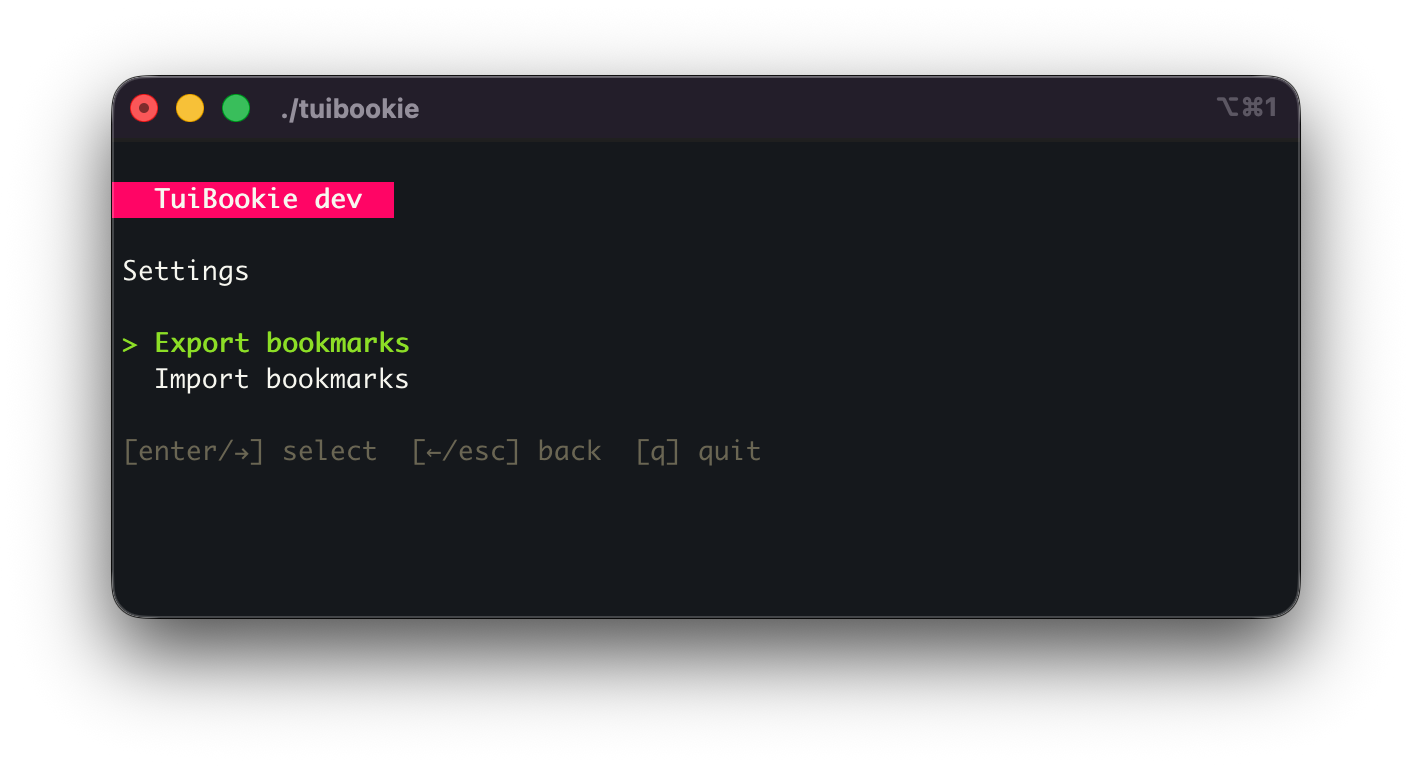
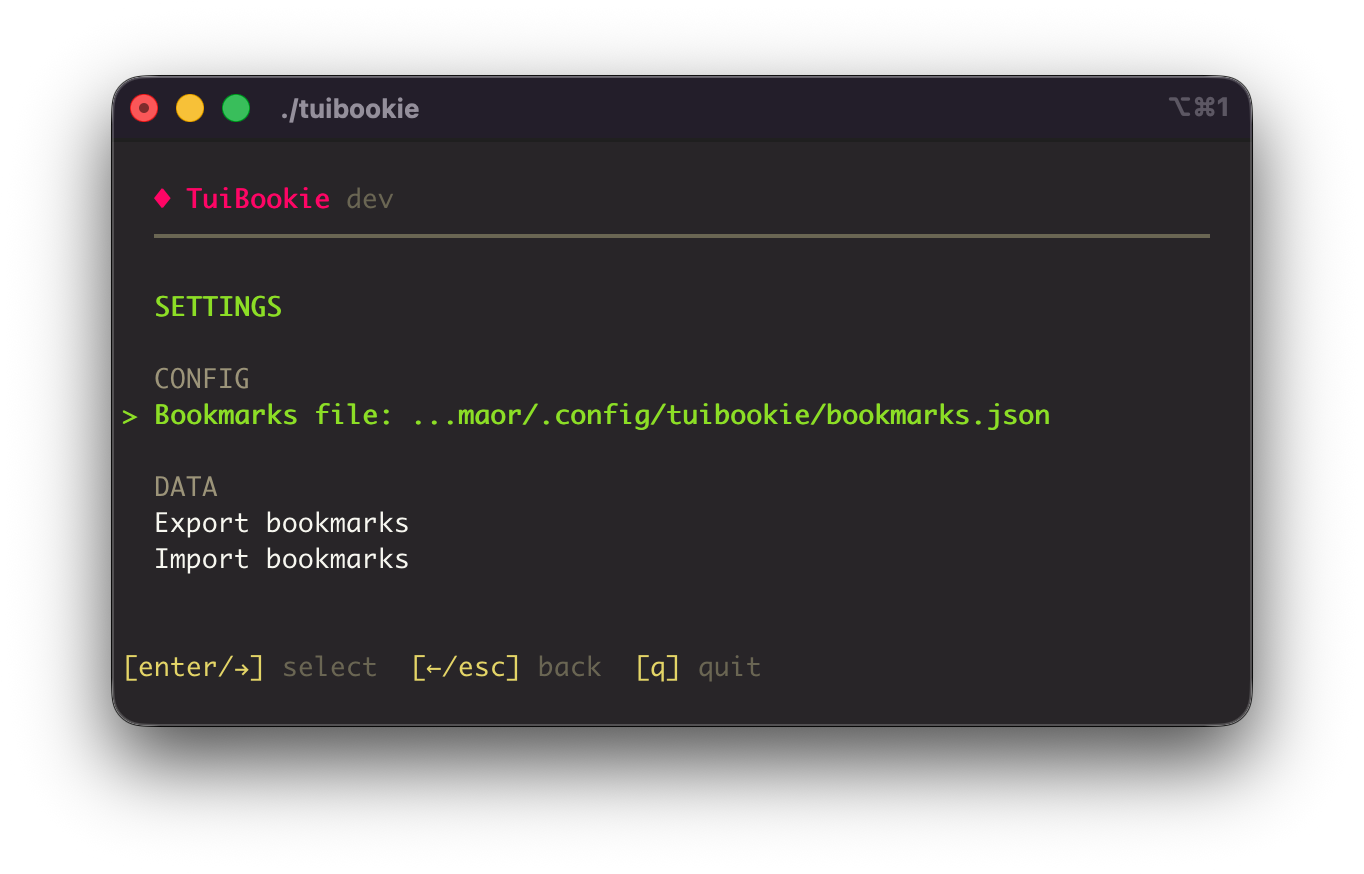
fix: update UI styles and improve layout for better readability

Changed region(s): [[0.0616, 0.0601, 0.9238, 0.8708], [0.3387, 0.4504, 0.7698, 0.5104], [0.4619, 0.5705, 0.5235, 0.6005]]

diff --git a/website/index.html b/website/index.html
@@ -223,18 +223,29 @@
     }
 
     .tui-badge {
-      display: inline-block;
-      background: var(--accent);
-      color: var(--text);
-      padding: 1px 8px;
-      border-radius: 3px;
+      display: block;
       font-size: 12px;
+      margin-bottom: 4px;
+    }
+    .tui-badge .tui-title-name {
+      color: var(--accent);
       font-weight: bold;
+    }
+    .tui-badge .tui-title-ver {
+      color: var(--help);
+    }
+    .tui-sep {
+      color: var(--help);
       margin-bottom: 12px;
+      letter-spacing: -1px;
+      overflow: hidden;
+      white-space: nowrap;
     }
 
     .tui-heading {
-      color: var(--text);
+      color: var(--green);
+      font-weight: bold;
+      text-transform: uppercase;
       margin-bottom: 8px;
     }
 
@@ -475,13 +486,14 @@
             </div>
             <div class="terminal-body">
               <div class="tui">
-                <div><span class="tui-badge">TuiBookie <!--VERSION-->v1.1.4<!--/VERSION--></span></div>
+                <div class="tui-badge"><span class="tui-title-name">◆ TuiBookie</span> <span class="tui-title-ver"><!--VERSION-->v1.1.4<!--/VERSION--></span></div>
+                <div class="tui-sep">━━━━━━━━━━━━━━━━━━━━━━━━━━━━━━━━━━━━━━━━━━━━━━━━━━━━━━━━━━━━━━━━━━━━━━━━━━━━━━━━━━━━━━━━━━━━━━━━━━━━</div>
                 <div class="tui-selected">&gt; Deployments (3)</div>
                 <div>&nbsp; Docker (4)</div>
                 <div>&nbsp; Kubernetes (3)</div>
                 <div>&nbsp; Monitoring (2)</div>
-                <div>&nbsp; Production Servers (3)</div>
-                <div>&nbsp; Staging Servers (2)</div>
+                <div>&nbsp; Production servers (3)</div>
+                <div>&nbsp; Staging servers (2)</div>
                 <div class="tui-help"><span>[a]</span>dd <span>[e]</span>dit <span>[d]</span>elete <span>[s]</span>ettings <span>[enter/&rarr;]</span> open <span>[q/esc]</span> quit</div>
               </div>
             </div>
@@ -497,12 +509,12 @@
             </div>
             <div class="terminal-body">
               <div class="tui">
-                <div><span class="tui-badge">TuiBookie <!--VERSION-->v1.1.4<!--/VERSION--></span></div>
-                <div class="tui-heading">Docker</div>
-                <div class="tui-selected">&gt; Clean up <span class="tui-cmd">docker system prune -af</span></div>
-                <div>&nbsp; Follow logs <span class="tui-cmd">docker compose logs -f</span></div>
-                <div>&nbsp; Start stack <span class="tui-cmd">docker compose up -d</span></div>
-                <div>&nbsp; Stop stack <span class="tui-cmd">docker compose down</span></div>
+                <div class="tui-badge"><span class="tui-title-name">◆ TuiBookie</span> <span class="tui-title-ver"><!--VERSION-->v1.1.4<!--/VERSION--></span></div>
+                <div class="tui-sep">━━━━━━━━━━━━━━━━━━━━━━━━━━━━━━━━━━━━━━━━━━━━━━━━━━━━━━━━━━━━━━━━━━━━━━━━━━━━━━━━━━━━━━━━━━━━━━━━━━━━</div>
+                <div class="tui-heading">Kubernetes</div>
+                <div class="tui-selected">&gt; API logs <span class="tui-cmd">kubectl logs -f deployment/api -n production</span></div>
+                <div>&nbsp; Node resources <span class="tui-cmd">kubectl top nodes</span></div>
+                <div>&nbsp; Prod pods <span class="tui-cmd">kubectl get pods -n production</span></div>
                 <div class="tui-help"><span>[a]</span>dd <span>[e]</span>dit <span>[d]</span>elete <span>[enter]</span> run <span>[&larr;/esc]</span> back <span>[q]</span>uit</div>
               </div>
             </div>
@@ -518,13 +530,13 @@
             </div>
             <div class="terminal-body">
               <div class="tui">
-                <div><span class="tui-badge">TuiBookie <!--VERSION-->v1.1.4<!--/VERSION--></span></div>
+                <div class="tui-badge"><span class="tui-title-name">◆ TuiBookie</span> <span class="tui-title-ver"><!--VERSION-->v1.1.4<!--/VERSION--></span></div>
+                <div class="tui-sep">━━━━━━━━━━━━━━━━━━━━━━━━━━━━━━━━━━━━━━━━━━━━━━━━━━━━━━━━━━━━━━━━━━━━━━━━━━━━━━━━━━━━━━━━━━━━━━━━━━━━</div>
                 <div class="tui-heading">Settings</div>
-                <div>&nbsp;</div>
-                <div style="font-size:10px;text-transform:uppercase;letter-spacing:1px;color:var(--help)">CONFIG</div>
+                <div style="color:var(--help)">CONFIG</div>
                 <div class="tui-selected">&gt; Bookmarks file: ~/.config/tuibookie/bookmarks.json</div>
                 <div>&nbsp;</div>
-                <div style="font-size:10px;text-transform:uppercase;letter-spacing:1px;color:var(--help)">DATA</div>
+                <div style="color:var(--help)">DATA</div>
                 <div>&nbsp; Export bookmarks</div>
                 <div>&nbsp; Import bookmarks</div>
                 <div class="tui-help"><span>[enter/&rarr;]</span> select <span>[&larr;/esc]</span> back <span>[q]</span> quit</div>

diff --git a/internal/tui/styles.go b/internal/tui/styles.go
@@ -7,13 +7,15 @@ import (
 )
 
 var (
-	titleStyle = lipgloss.NewStyle().
+	titleNameStyle = lipgloss.NewStyle().
 			Bold(true).
-			Foreground(lipgloss.Color("#F8F8F2")).
-			Background(lipgloss.Color("#F92672")).
-			Padding(0, 1).
-			MarginTop(1).
-			MarginLeft(2)
+			Foreground(lipgloss.Color("#F92672"))
+
+	titleVersionStyle = lipgloss.NewStyle().
+				Foreground(lipgloss.Color("#75715E"))
+
+	titleSepStyle = lipgloss.NewStyle().
+			Foreground(lipgloss.Color("#75715E"))
 
 	helpStyle = lipgloss.NewStyle().
 			Foreground(lipgloss.Color("#75715E"))
@@ -24,6 +26,10 @@ var (
 	selectedStyle = lipgloss.NewStyle().
 			Foreground(lipgloss.Color("#A6E22E")).
 			Bold(true)
+
+	headingStyle = lipgloss.NewStyle().
+			Bold(true).
+			Foreground(lipgloss.Color("#A6E22E"))
 
 	normalStyle = lipgloss.NewStyle().
 			Foreground(lipgloss.Color("#F8F8F2"))

diff --git a/internal/tui/bookmarks.go b/internal/tui/bookmarks.go
@@ -94,7 +94,7 @@ func (m Model) viewBookmark() string {
 
 	b.WriteString(m.title())
 	b.WriteString("\n\n")
-	b.WriteString(normalStyle.Render("  " + m.selectedCat))
+	b.WriteString(headingStyle.Render("  " + strings.ToUpper(m.selectedCat)))
 	b.WriteString("\n\n")
 
 	items := m.bookmarks[m.selectedCat]
@@ -113,7 +113,7 @@ func (m Model) viewBookmark() string {
 		}
 	}
 
-	b.WriteString("\n")
+	b.WriteString("\n\n")
 	b.WriteString(renderHelp("[a]dd  [e]dit  [d]elete  [enter] run  [←/esc] back  [q]uit"))
 
 	return b.String()

diff --git a/internal/tui/model.go b/internal/tui/model.go
@@ -1,6 +1,9 @@
 package tui
 
 import (
+	"fmt"
+	"strings"
+
 	"charm.land/huh/v2"
 	tea "charm.land/bubbletea/v2"
 
@@ -123,7 +126,10 @@ func (m Model) View() tea.View {
 }
 
 func (m Model) title() string {
-	return titleStyle.Render("TuiBookie " + m.version)
+	name := titleNameStyle.Render("◆ TuiBookie")
+	ver := titleVersionStyle.Render(" " + m.version)
+	sep := titleSepStyle.Render(strings.Repeat("━", max(0, m.width-4)))
+	return fmt.Sprintf("\n  %s%s\n  %s", name, ver, sep)
 }
 
 func (m *Model) refreshCategories() {

diff --git a/internal/tui/settings.go b/internal/tui/settings.go
@@ -96,7 +96,7 @@ func (m Model) viewSettings() string {
 
 	b.WriteString(m.title())
 	b.WriteString("\n\n")
-	b.WriteString(normalStyle.Render("  Settings"))
+	b.WriteString(headingStyle.Render("  SETTINGS"))
 	b.WriteString("\n\n")
 
 	// CONFIG section
@@ -134,7 +134,7 @@ func (m Model) viewSettings() string {
 		b.WriteString("\n")
 	}
 
-	b.WriteString("\n")
+	b.WriteString("\n\n")
 	b.WriteString(renderHelp("[enter/→] select  [←/esc] back  [q] quit"))
 
 	return b.String()

diff --git a/internal/tui/category.go b/internal/tui/category.go
@@ -99,7 +99,7 @@ func (m Model) viewCategory() string {
 		}
 	}
 
-	b.WriteString("\n")
+	b.WriteString("\n\n")
 	b.WriteString(renderHelp("[a]dd  [e]dit  [d]elete  [s]ettings  [enter/→] open  [q/esc] quit"))
 
 	return b.String()
